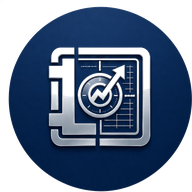
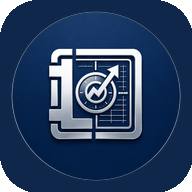
Add files via upload

diff --git a/index.html b/index.html
@@ -354,7 +354,7 @@
  /* STARTUP SPLASH */
  #startupSplash{position:fixed;inset:0;z-index:5000;background:linear-gradient(180deg,#0E1A33 0%,#172847 55%,#0B1220 100%);display:flex;align-items:center;justify-content:center;flex-direction:column;color:#fff;transition:opacity .35s ease,visibility .35s ease}
  #startupSplash.hide{opacity:0;visibility:hidden;pointer-events:none}
- .startup-logo{width:130px;height:130px;border-radius:30px;object-fit:contain;box-shadow:0 20px 54px rgba(0,0,0,.34);margin-bottom:18px;background:rgba(255,255,255,.04);padding:6px}
+ .startup-logo{width:132px;height:132px;border-radius:50%;object-fit:contain;box-shadow:0 20px 54px rgba(0,0,0,.34);margin-bottom:18px;background:transparent;padding:0}
  .startup-name{font-family:var(--fh);font-size:34px;font-weight:800;letter-spacing:-1px;line-height:1;color:#fff;white-space:nowrap}
  .startup-tagline{font-size:10px;letter-spacing:3.6px;text-transform:uppercase;color:#CBD5E1;margin-top:10px;font-weight:600}
  .startup-loader{width:92px;height:3px;border-radius:10px;background:rgba(255,255,255,.18);overflow:hidden;margin-top:26px}
@@ -426,7 +426,7 @@
 <body>
 
 <div id="startupSplash" aria-hidden="true">
- <img class="startup-logo" src="./splash-logo.png" alt="Vault Ledger">
+ <img class="startup-logo" src="./splash-logo.png?v=2.5" alt="Vault Ledger">
  <div class="startup-name">Vault Ledger</div>
  <div class="startup-tagline">GESTÃO FINANCEIRA INTELIGENTE</div>
  <div class="startup-loader"><span></span></div>
@@ -443,7 +443,7 @@
  <header class="header">
   <div class="header-top">
    <div class="brand-wrap">
-    <img class="brand-icon" src="./vault-ledger-icon-192.png" alt="Vault Ledger">
+    <img class="brand-icon" src="./vault-ledger-icon-192.png?v=2.5" alt="Vault Ledger">
     <div>
      <div class="header-title">Vault Ledger</div>
      <div class="header-subtitle" id="headerSubtitle">Olá, Vinicius</div>
@@ -3735,7 +3735,7 @@ function renderLanding() {
     <div class="landing-wrap">
       <div class="landing-top">
         <div class="landing-brand">
-          <img src="./vault-ledger-icon-192.png" alt="Vault Ledger">
+          <img src="./vault-ledger-icon-192.png?v=2.5" alt="Vault Ledger">
           <div>
             <div class="landing-title">Vault Ledger</div>
             <div class="landing-subtitle">GESTÃO FINANCEIRA INTELIGENTE</div>
@@ -3792,7 +3792,7 @@ function renderLanding() {
 
 function authLogo() {
  return `<div class="auth-logo-wrap">
-  <img class="auth-app-icon" src="./vault-ledger-icon-192.png" alt="Vault Ledger">
+  <img class="auth-app-icon" src="./vault-ledger-icon-192.png?v=2.5" alt="Vault Ledger">
   <div class="auth-logo">Vault Ledger</div>
   <div class="auth-tagline">GESTÃO FINANCEIRA INTELIGENTE</div>
  </div>`;

diff --git a/sw.js b/sw.js
@@ -1,52 +1,42 @@
-const CACHE_NAME = 'vault-ledger-v2.4-nome-instalar';
-const ASSETS = [
+const CACHE_NAME = 'vault-ledger-v2-5-pwa-fix';
+const APP_SHELL = [
   './',
   './index.html',
   './manifest.webmanifest',
-  './vault-ledger-icon-192.png?v=2.4',
-  './vault-ledger-icon-512.png?v=2.4',
-  './favicon.png?v=2.4',
-  './splash-logo.png?v=2.4'
+  './vault-ledger-icon-192.png',
+  './vault-ledger-icon-512.png',
+  './favicon.png',
+  './splash-logo.png'
 ];
 
-self.addEventListener('install', (event) => {
+self.addEventListener('install', event => {
   self.skipWaiting();
-  event.waitUntil(caches.open(CACHE_NAME).then((cache) => cache.addAll(ASSETS)).catch(() => null));
-});
-
-self.addEventListener('activate', (event) => {
   event.waitUntil(
-    caches.keys()
-      .then((keys) => Promise.all(keys.filter((key) => key !== CACHE_NAME).map((key) => caches.delete(key))))
-      .then(() => self.clients.claim())
+    caches.open(CACHE_NAME).then(cache => cache.addAll(APP_SHELL).catch(() => null))
   );
 });
 
-self.addEventListener('fetch', (event) => {
-  if (event.request.method !== 'GET') return;
-  const request = event.request;
+self.addEventListener('activate', event => {
+  event.waitUntil(
+    caches.keys().then(keys => Promise.all(
+      keys.filter(key => key !== CACHE_NAME).map(key => caches.delete(key))
+    )).then(() => self.clients.claim())
+  );
+});
 
-  if (request.mode === 'navigate') {
-    event.respondWith(
-      fetch(request)
-        .then((response) => {
-          const copy = response.clone();
-          caches.open(CACHE_NAME).then((cache) => cache.put('./index.html', copy)).catch(() => null);
-          return response;
-        })
-        .catch(() => caches.match('./index.html'))
-    );
-    return;
-  }
+self.addEventListener('fetch', event => {
+  if (event.request.method !== 'GET') return;
+  const url = new URL(event.request.url);
 
   event.respondWith(
-    caches.match(request).then((cached) => {
-      const fetchPromise = fetch(request).then((response) => {
+    fetch(event.request)
+      .then(response => {
         const copy = response.clone();
-        caches.open(CACHE_NAME).then((cache) => cache.put(request, copy)).catch(() => null);
+        if (url.origin === self.location.origin) {
+          caches.open(CACHE_NAME).then(cache => cache.put(event.request, copy)).catch(() => null);
+        }
         return response;
-      }).catch(() => cached);
-      return cached || fetchPromise;
-    })
+      })
+      .catch(() => caches.match(event.request).then(cached => cached || caches.match('./index.html')))
   );
 });
